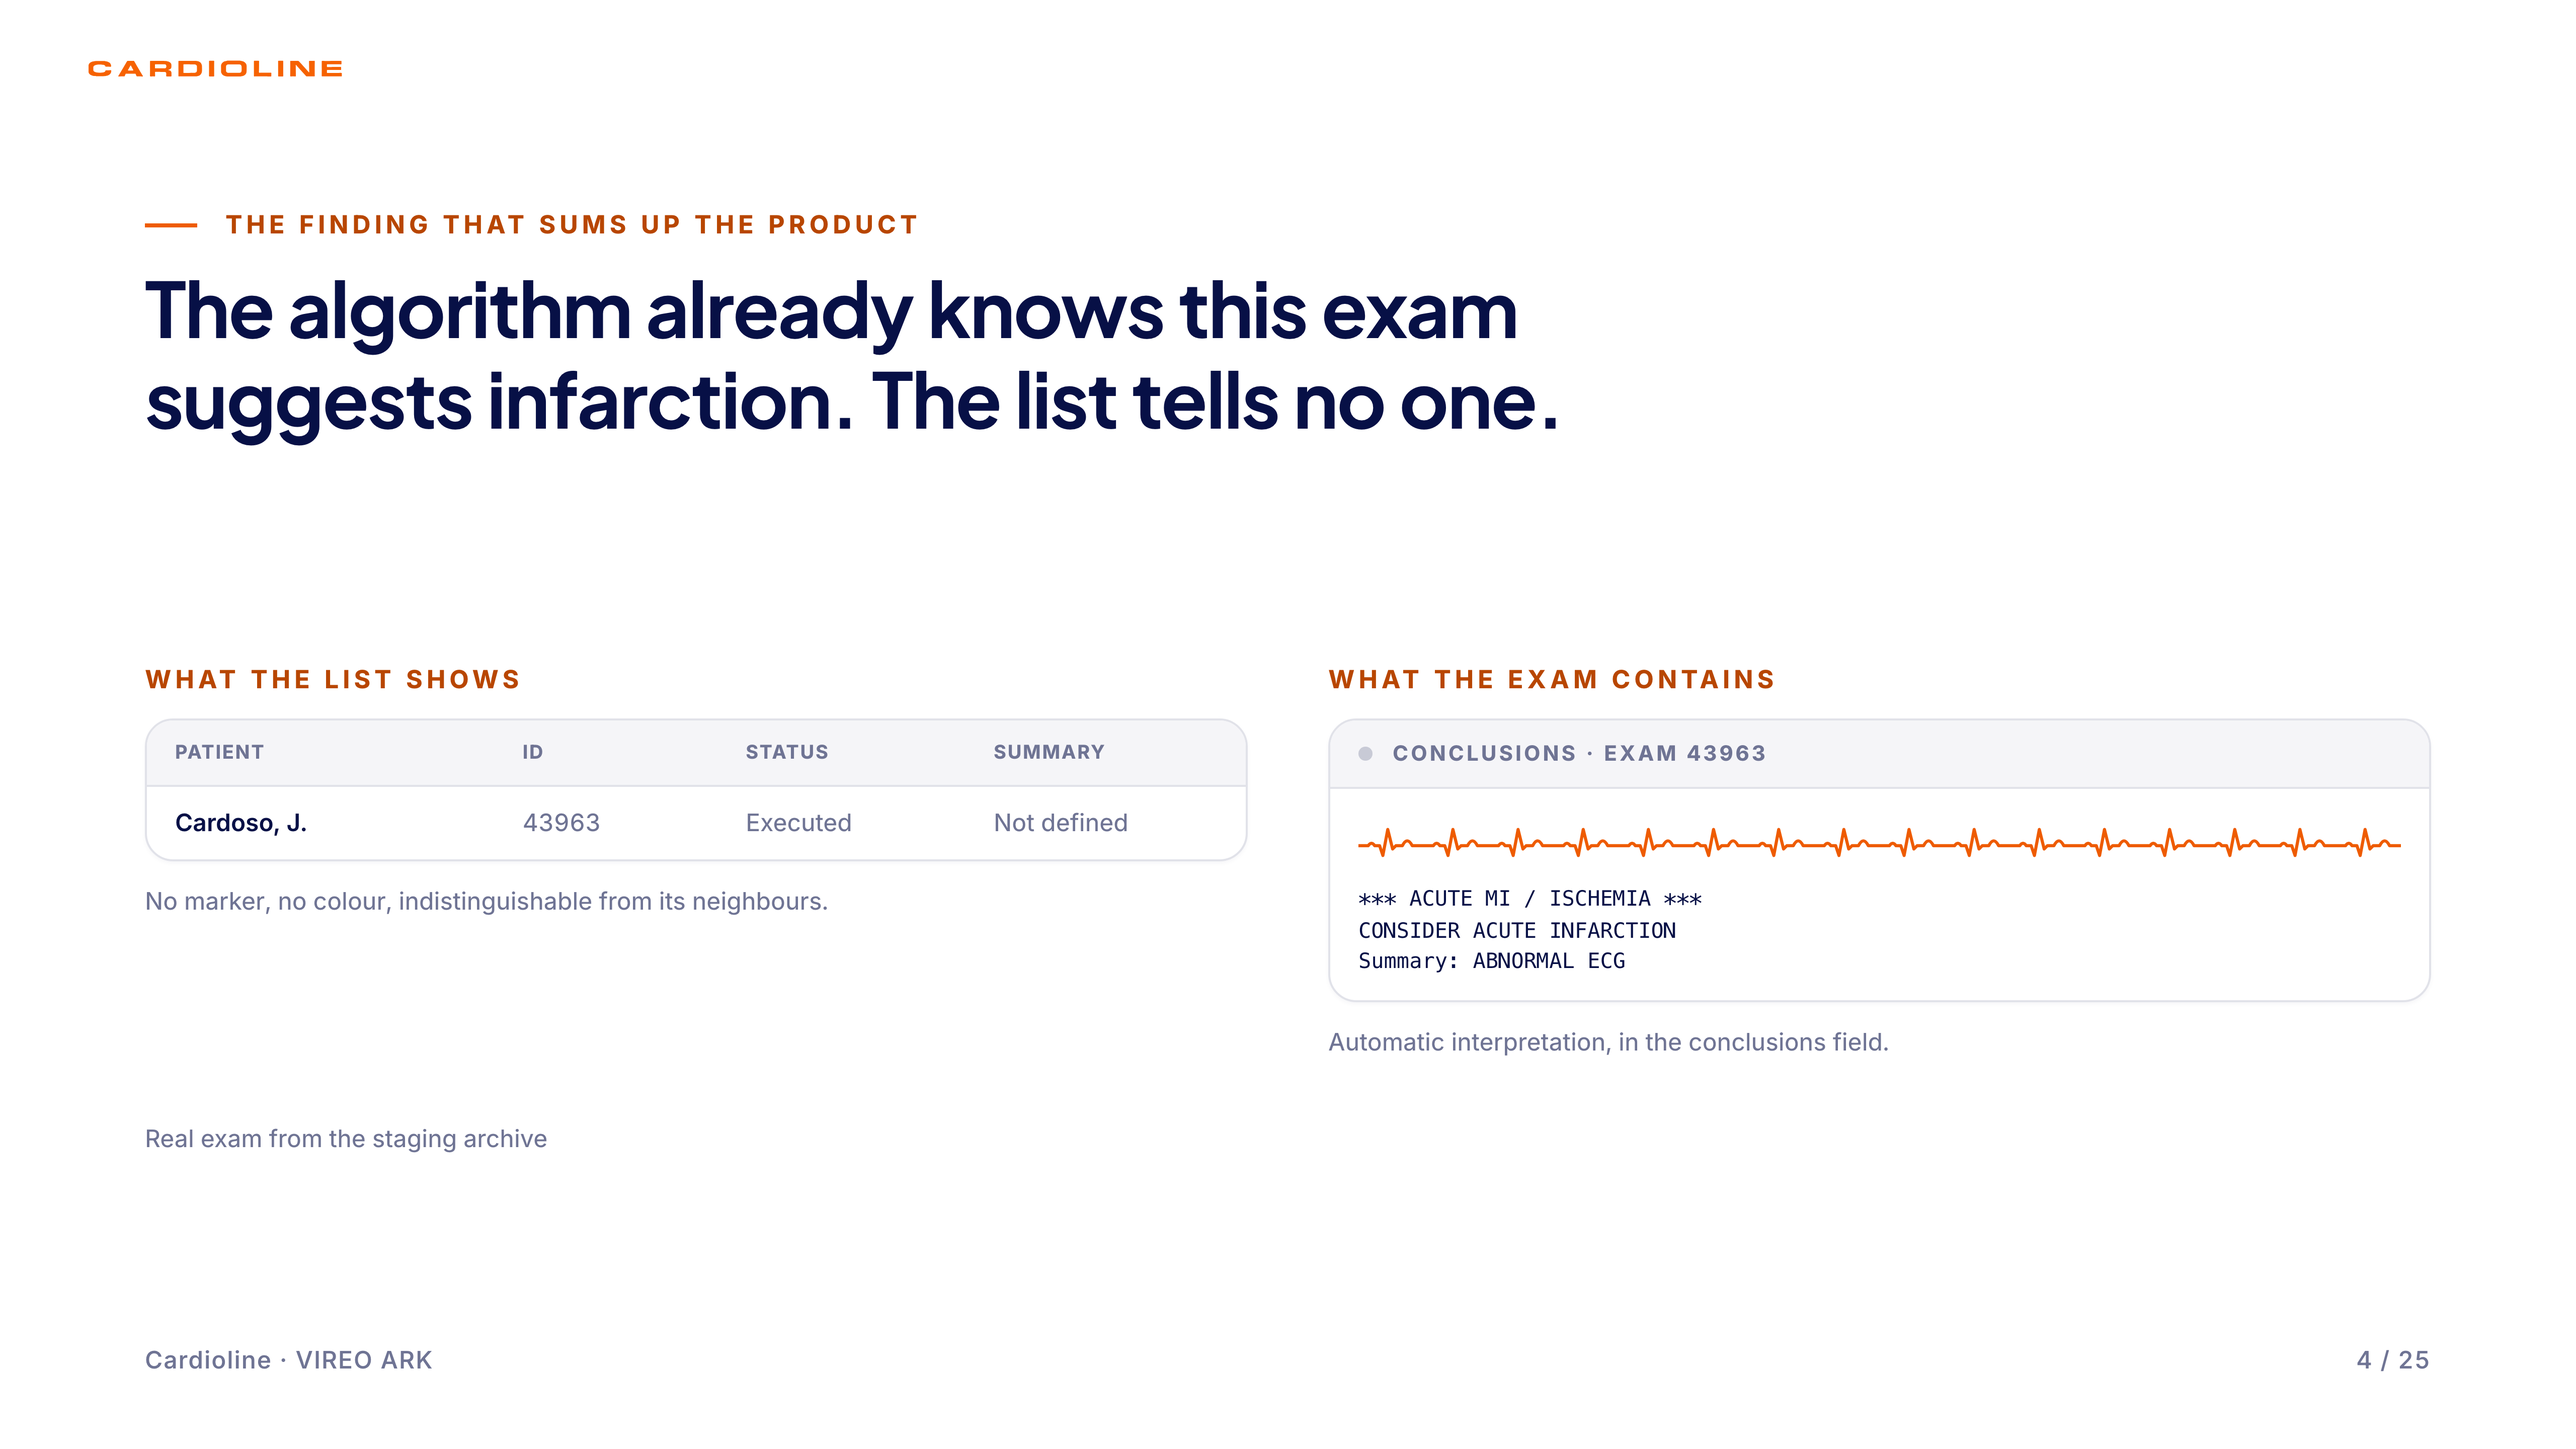
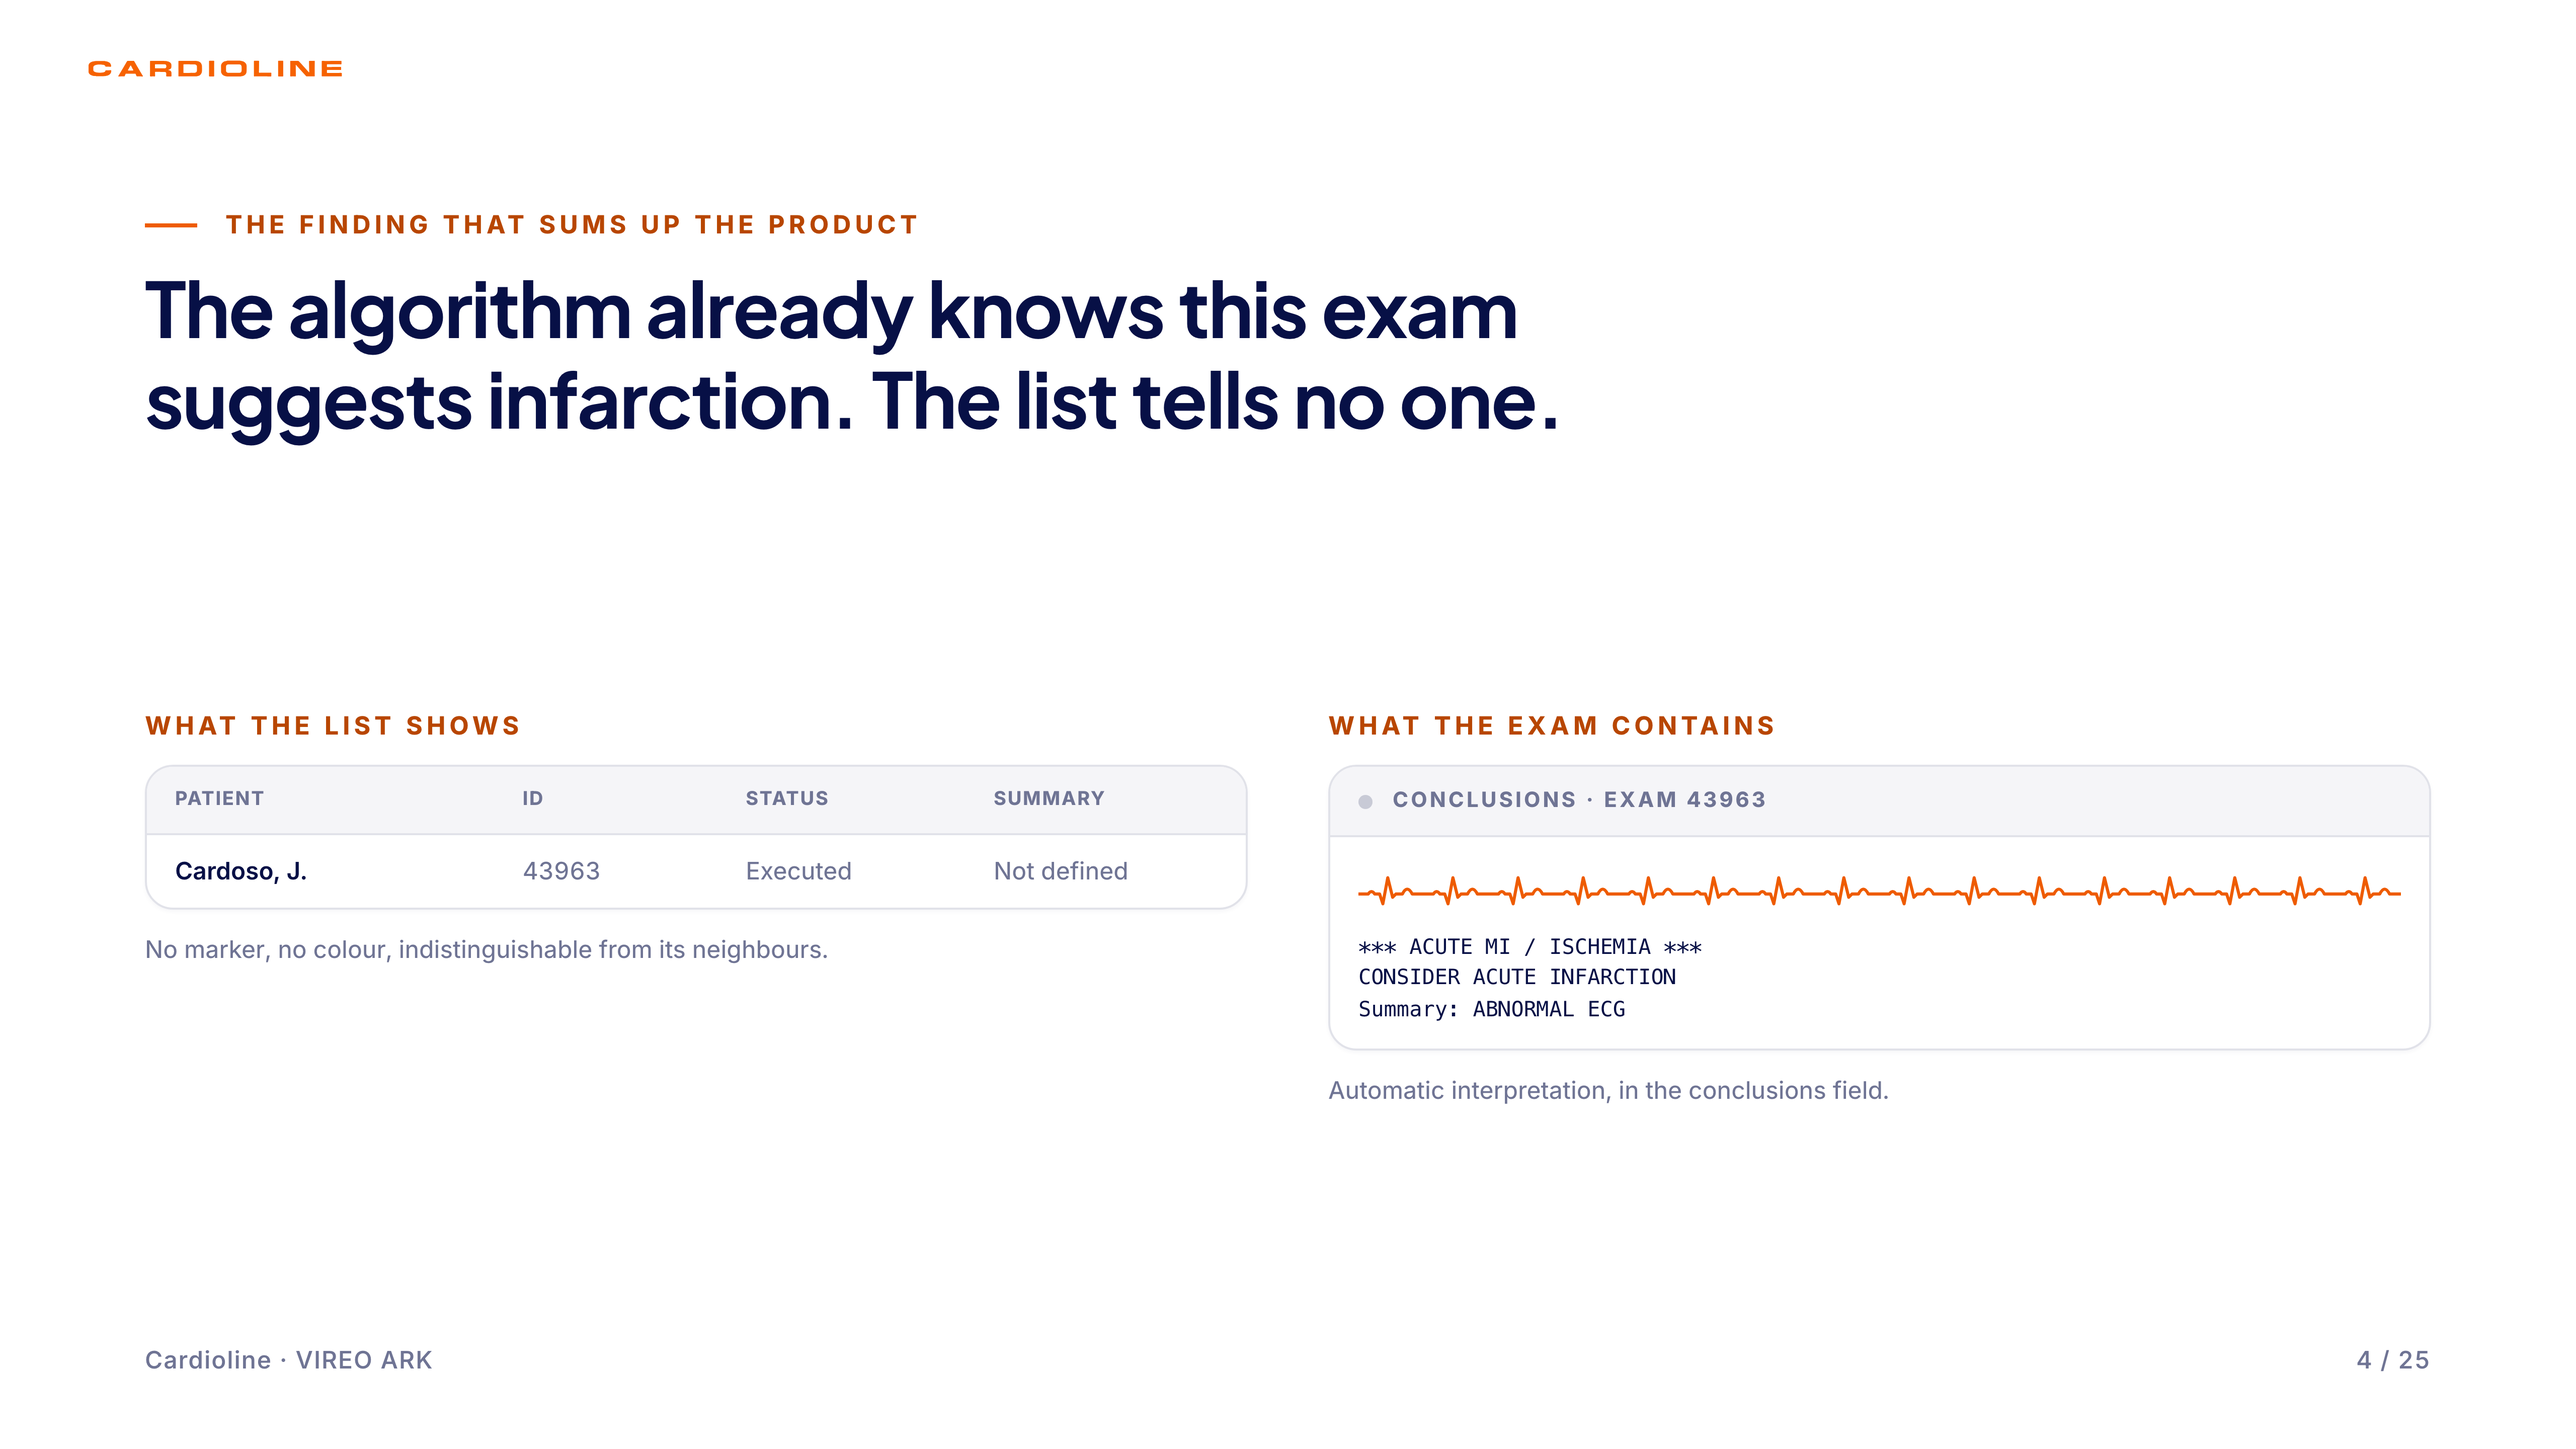
Remove notas de rodapé e legendas de metodologia dos slides
Claude-Session: https://claude.ai/code/session_01D4viNZJNSgPwweBi9cHEe5

diff --git a/deck.html b/deck.html
@@ -199,7 +199,7 @@ body.capture .mk-card.is-crit,
 <section class="slide t-cover" data-title="Cover" data-logo="off" data-footer="off">
   <div class="stage">
     <div class="cover-mark" data-reveal></div>
-    <p class="eyebrow" data-reveal style="--d: 1">VIREO ARK · Product, Design and Engineering</p>
+    <p class="eyebrow" data-reveal style="--d: 1">VIREO ARK</p>
     <h1 data-reveal style="--d: 2">The Next Version</h1>
     <p class="lead" data-reveal style="--d: 3">Four pillars: a smart Exam Inbox, an interface that
       looks finished, an experience shaped by role, one journey with MindBeat.</p>
@@ -268,7 +268,6 @@ body.capture .mk-card.is-crit,
             <div class="mk-row"><b>Esteves, L.</b><span class="mk-num">24/08 09:31</span><span class="mk-num">43958</span><span>Analysed</span><span>Borderline</span></div>
             <div class="mk-row"><b>Freitas, A.</b><span class="mk-num">23/08 20:14</span><span class="mk-num">43955</span><span>Executed</span><span>Not defined</span></div>
           </div>
-          <p class="mk-cap">The list as observed on staging, 5 of its 14 columns.</p>
         </div>
       </div>
     </div>
@@ -304,7 +303,6 @@ body.capture .mk-card.is-crit,
           <p class="mk-cap">Automatic interpretation, in the conclusions field.</p>
         </div>
       </div>
-      <p class="note" data-reveal style="--d: 5">Real exam from the staging archive</p>
     </div>
   </div>
 </section>
@@ -447,7 +445,6 @@ body.capture .mk-card.is-crit,
           Recently completed <span class="mk-band-n">6 · collapsed</span>
         </div>
       </div>
-      <p class="note" data-reveal style="--d: 8">Mock-up. The reason line is the field that does not exist today.</p>
     </div>
   </div>
 </section>
@@ -475,7 +472,6 @@ body.capture .mk-card.is-crit,
           </tbody>
         </table>
       </div>
-      <p class="note" data-reveal style="--d: 3">The three highlighted rows need a technical answer first.</p>
     </div>
   </div>
 </section>
@@ -514,7 +510,6 @@ body.capture .mk-card.is-crit,
           </ul>
         </div>
       </div>
-      <p class="note" data-reveal style="--d: 4">Every line on the right becomes a test case.</p>
     </div>
   </div>
 </section>
@@ -678,8 +673,6 @@ body.capture .mk-card.is-crit,
           </ul>
         </div>
       </div>
-      <p class="note" data-reveal style="--d: 4">The audit had a single profile, so the effect of each role could
-        not be observed. What is confirmed is that the mechanism exists.</p>
     </div>
   </div>
 </section>
@@ -751,7 +744,6 @@ body.capture .mk-card.is-crit,
           <span class="mk-role-sub">One action, one status. Nothing else on screen.</span>
         </div>
       </div>
-      <p class="note" data-reveal style="--d: 6">Mock-up. Pre-set roles ship configured and stay customisable.</p>
     </div>
   </div>
 </section>
@@ -784,9 +776,6 @@ body.capture .mk-card.is-crit,
             touches. One product, four coherent experiences.</p>
         </div>
       </div>
-      <p class="note" data-reveal style="--d: 5">This is an initial mapping &mdash; a prototype for the development
-        team to build on, not validated research. Items marked &ldquo;to validate&rdquo; need interviews or
-        a compliance decision.</p>
     </div>
   </div>
 </section>
@@ -829,9 +818,6 @@ body.capture .mk-card.is-crit,
           <p class="mk-why">Values seeing bottlenecks without opening exams one by one</p>
         </div>
       </div>
-      <p class="note" data-reveal style="--d: 6">To validate: whether the point-of-care operator is a persona of its
-        own or the technician on a mobile, low-connectivity interface. Treated separately here because
-        the context of use changes what the screen has to prioritise.</p>
     </div>
   </div>
 </section>
@@ -876,9 +862,6 @@ body.capture .mk-card.is-crit,
           </tbody>
         </table>
       </div>
-      <p class="note" data-reveal style="--d: 3">To validate with compliance: how far the manager can see individual
-        clinical data, given that they are not the professional responsible for the report. Who owns the
-        Inbox prioritisation and SLA rules is still to be confirmed.</p>
     </div>
   </div>
 </section>
@@ -922,8 +905,6 @@ body.capture .mk-card.is-crit,
           <p>Findings and corrections return to the exam. Conclusion and signature close here.</p>
         </div>
       </div>
-      <p class="note" data-reveal style="--d: 6">VIREO ARK does not rebuild the Holter viewer. Beat navigation,
-        artefact judgement and morphology grouping stay in MindBeat.</p>
     </div>
   </div>
 </section>
@@ -945,7 +926,6 @@ body.capture .mk-card.is-crit,
               including the infarction finding, with no warning and no history.</li>
             <li data-reveal style="--d: 4">Syncing MindBeat output into that box would make an existing problem worse.</li>
           </ul>
-          <p class="note" data-reveal style="--d: 5">Behaviour observed on staging</p>
         </div>
         <div data-reveal style="--d: 3">
           <div class="mk">
@@ -971,7 +951,6 @@ body.capture .mk-card.is-crit,
               </div>
             </div>
           </div>
-          <p class="mk-cap">Mock-up. The AI block never pre-fills the clinician&rsquo;s field.</p>
         </div>
       </div>
     </div>
@@ -1006,7 +985,6 @@ body.capture .mk-card.is-crit,
             into conclusions · an AI performance dashboard.</p>
         </div>
       </div>
-      <p class="note" data-reveal style="--d: 5">Column C is not later. These are discard decisions.</p>
     </div>
   </div>
 </section>
